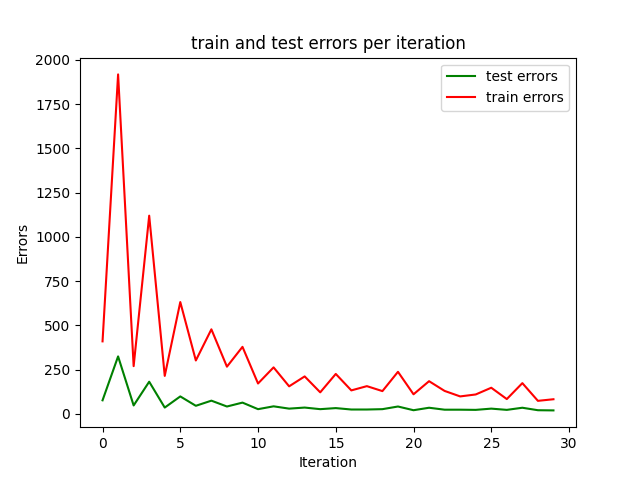
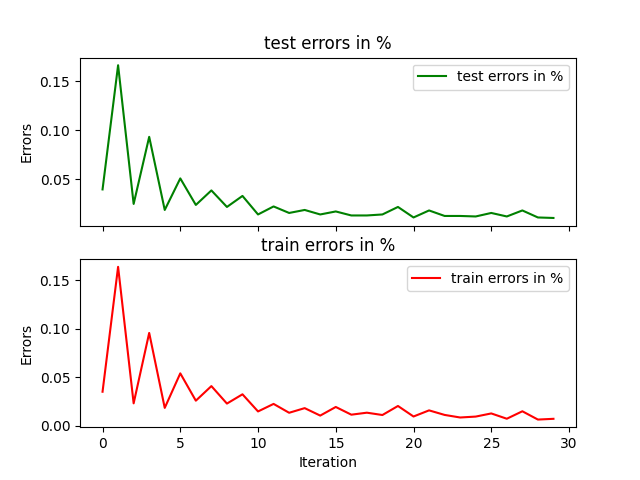
pretty much finished just need to add the report

diff --git a/HW3 part2.py b/HW3 part2.py
@@ -46,6 +46,8 @@ plt.title('1 train image')
 plt.savefig('1 train image.png')
 # adjustable T
 T= 30
+train_size = len(train_labels)
+test_size = len(test_labels)
 m,n_featurs= train.shape
 alpha = np.zeros(T)
 p= (1/m)*np.ones((T+1,m))
@@ -98,7 +100,7 @@ for t in range(T):
     missclasified_train = [train_labels != y_pred]
     error_train = np.sum(missclasified_train)
     #add the error for the plot
-    errors_train[t]=error_train
+    errors_train[t]=error_train/ train_size
     
     #now for the test
     clf_preds = [alpha[t] * clf.predict(test) for clf in clfs]
@@ -106,7 +108,7 @@ for t in range(T):
     y_pred = np.sign(y_pred)
     missclasified_test = [test_labels != y_pred]
     error_test = np.sum(missclasified_test)
-    errors_test[t]=error_test
+    errors_test[t]=error_test/ test_size
 
     print('error in iteration {} for the train is ={}'.format(t,error_train))
     print('error in iteration {} for the test is ={}'.format(t,error_test))
@@ -126,14 +128,22 @@ error = np.sum(missclasified)
 accurecy = 1.0 - error/len(test_labels)
 print('on the test we got {} errors out of {} and accurecy of {}'.format(error,len(test_labels),accurecy))
 t=[i for i in range(T)]
-plt.figure()
+#plt.figure()
+figure, axis = plt.subplots(2)
 
-plt.plot(t,errors_test,  color='g', label='test errors')
-plt.plot(t,errors_train, color='r', label='train errors')
+axis[0].plot(t,errors_test,  color='g', label='test errors in %')
+axis[0].set_title("test errors in %")
+axis[0].legend()
+axis[0].set( ylabel='Errors')
+axis[0].label_outer()
+#plt.plot(t,errors_train, color='r', label='train errors')
+axis[1].plot(t,errors_train, color='r', label='train errors in %')
+axis[1].set_title("train errors in %")
+axis[1].legend()
 # Naming the x-axis, y-axis and the whole graph
 plt.xlabel("Iteration")
 plt.ylabel("Errors")
-plt.title("train and test errors per iteration")
-plt.legend()
+#plt.title("train and test errors per iteration")
+#plt.legend()
 plt.savefig('part2 train and test errors.png')
 temp=1
